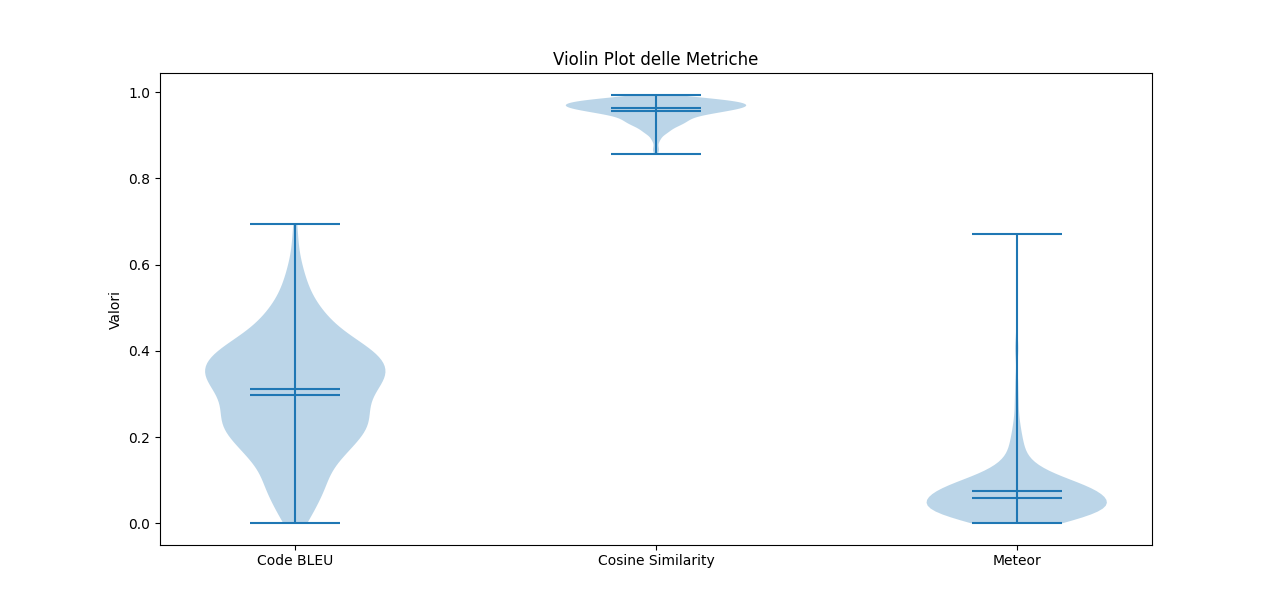
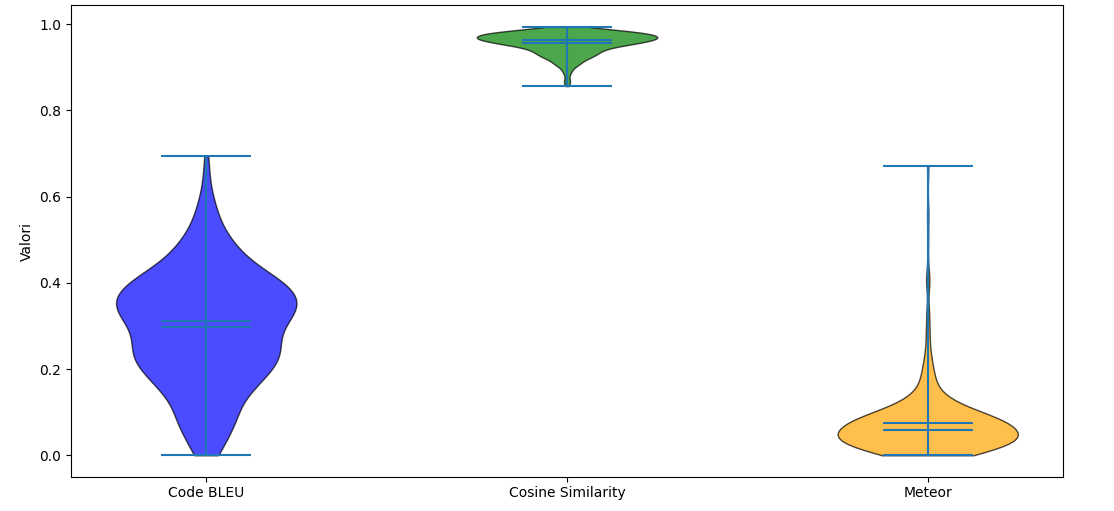
migliorament descrizione e immagini draw, aggiunte di immagini sul documento

diff --git a/descrizione lavoro.tex b/descrizione lavoro.tex
@@ -7,15 +7,18 @@
 \usepackage{xcolor}
 
 \lstset{
+    language=Python,
+    backgroundcolor=\color{white},  
     basicstyle=\ttfamily\small,
     keywordstyle=\color{blue},
     commentstyle=\color{gray},
     numbers=left,
     numberstyle=\tiny,
     stepnumber=1,
+    showstringspaces=false,
     breaklines=true,
     breakatwhitespace=false,
-    columns=flexible,
+    columns=flexible
 }
 
 \lstdefinelanguage{json}{
@@ -27,19 +30,9 @@
     showstringspaces=false,
     breaklines=true,
     frame=single,
-    backgroundcolor=\color{gray!10},
-    literate=
-     *{0}{{{\color{blue}0}}}{1}
-      {1}{{{\color{blue}1}}}{1}
-      {2}{{{\color{blue}2}}}{1}
-      {3}{{{\color{blue}3}}}{1}
-      {4}{{{\color{blue}4}}}{1}
-      {5}{{{\color{blue}5}}}{1}
-      {6}{{{\color{blue}6}}}{1}
-      {7}{{{\color{blue}7}}}{1}
-      {8}{{{\color{blue}8}}}{1}
-      {9}{{{\color{blue}9}}}{1},
+    backgroundcolor=\color{gray!10}
 }
+\newcommand{\dafare}[1]{\textbf{\textcolor{red}{[Da fare: #1]}}}
 
 \title{Utilizzo degli LLM per Generare Hugging Face Model Card da esempi di codice}
 \author{Stefano Palombo}
@@ -71,6 +64,7 @@ Per raggiungere questo scopo è stata inizialmente condotta una ricerca approfon
 L’estrazione e l’analisi di queste sequenze di codice forniscono informazioni utili non solo per valutare la coerenza tra documentazione ufficiale e utilizzo pratico, ma anche per comprendere meglio come i modelli vengono adottati nella realtà. L’analisi dei pattern permette infatti di identificare best practices, iperparametri specifici che potrebbero non essere immediatamente evidenti nelle model card.\\
 L’approccio sviluppato potrebbe anche essere utilizzato in futuro per arricchire automaticamente le model card che attualmente non contengono esempi di codice, contribuendo a migliorare la qualità e la fruibilità della documentazione dei modelli preaddestrati, rendendo l’ecosistema di Hugging Face ancora più accessibile.\\
 
+\dafare{1}
 \textbf{CLAUDIO:Metti il link al repository github con il codice e i dati}
 
 \section{Contesto e Motivazione}
@@ -78,7 +72,7 @@ L’approccio sviluppato potrebbe anche essere utilizzato in futuro per arricchi
 In questa sezione verranno illustrati i principali strumenti impiegati, evidenziando il loro ruolo all'interno del workflow sperimentale e il motivo della loro scelta per ottimizzare l'accuratezza e l'efficienza dell’analisi:
 
 \subsubsection{Hugging Face Model card} 
-Rappresenta la documentazione ufficiale di un modello pre-addestrato (\textbf{PTM})  e include informazioni tecniche e pratiche per il suo utilizzo\cite{huggingface_model_cards}. Ogni model card è associata a un repository su Hugging Face e solitamente è contenuta in un file README.md, accessibile direttamente dalla pagina web del modello (es. \cite{all-MiniLM-L6-v2} \ref{fig:1}).\\
+Rappresenta la documentazione ufficiale di un modello pre-addestrato (\textbf{PTM})  e include informazioni tecniche e pratiche per il suo utilizzo\cite{huggingface_model_cards}. Ogni model card è associata a un repository su Hugging Face e solitamente è contenuta in un file README.md, accessibile direttamente dalla pagina web del modello (es. \cite{all-MiniLM-L6-v2} \ref{fig:model_card_completa}).\\
 Le informazioni comprese in una model card variano a seconda del creatore del modello, ma generalmente comprendono una descrizione generale, che illustra l'architettura del modello, lo scopo e le principali caratteristiche. Vengono poi specificati i task supportati, come classificazione, generazione di testo, embedding e traduzione. Inoltre, viene indicata la licenza sotto cui il modello è rilasciato, un aspetto fondamentale per comprenderne le condizioni d'uso. Un altro elemento chiave è la descrizione dei dataset di pre-training, che fornisce informazioni sulle fonti dei dati utilizzati per l'addestramento del modello. Se presenti, vengono segnalate eventuali restrizioni sulla lunghezza massima del contesto supportato, comunemente indicate come token limit.\\
 Una parte della model card potrebbe essere dedicata alla modalità di fine-tuning, offrendo suggerimenti su come adattare il modello per compiti specifici. Sono inoltre fornite informazioni su inferenza e deployment, con esempi pratici e spesso accompagnati da snippet di codice Python che utilizzano la libreria open-source \textit{transformers}\cite{wolf-etal-2020-transformers}, sviluppata direttamente da Hugging Face. Infine, vengono evidenziate le principali limitazioni del modello, incluse le performance su dati specifici e i potenziali problemi legati al suo utilizzo.\\
 Oltre al contenuto testuale, le model card includono una sezione di metadati in formato YAML all'inizio del file README.md. Questi metadati facilitano la ricerca e il filtraggio dei modelli nel \textit{Model Hub}, consentendo agli utenti di selezionare modelli in base a criteri come licenza, dataset utilizzati e lingue supportate.\\
@@ -90,7 +84,7 @@ Infine, recenti studi su larga scala hanno analizzato le model card esistenti, e
     \centering
     \includegraphics[width=.7\linewidth]{images/model_card.png}
     \caption{Esempio di model card}
-    \label{fig1:model_card_completa}
+    \label{fig:model_card_completa}
 \end{figure}
 
 \subsubsection{Processo di raccolta dati} \label{tirocinio}
@@ -163,12 +157,19 @@ Quando si utilizza un LLM open-source come LLaMA per generare testo (codice), è
 \end{itemize}
 
 \subsubsection{Clustering}
-
+Il \textbf{clustering} è una tecnica di machine learning \textit{non supervisionato} utilizzata per raggruppare un insieme di dati in sottogruppi omogenei, detti cluster, sulla base di caratteristiche comuni. L'obiettivo di questa tecnica è identificare strutture o pattern nascosti nei dati senza la necessità di etichette predefinite. A differenza della classificazione, in cui ogni elemento viene assegnato a una categoria nota, il clustering permette di scoprire relazioni tra i dati in modo autonomo. La qualità del risultato, in generale, dipende soprattutto dalla metrica di similarità utilizza come la distanza euclidea o la similarità del coseno.\\ (wikipedia)
+\dafare{2}
 
 \subsection{Motivazione} \label{motivation}
-Oltre alla misurazione di quanto la generazione automatica di codice, che rappresenti l'uso del modello in contesti reali, sia simile a quella ufficiale presente sulla piattaforma Hugging Face, i risultati condotti dall'esperimento possono essere interpreti anche come una fonte di arricchimento, soprattutto nelle model card in cui non ci sono esempi di codice.
-
-ESEMPIO DI CARD "microsoft/git-large" senza codice (motivazione)
+Oltre alla misurazione di quanto la generazione automatica di codice, che rappresenti l'uso del modello in contesti reali, sia simile a quella ufficiale presente sulla piattaforma Hugging Face, i risultati condotti dall'esperimento possono essere interpreti anche come una fonte di arricchimento, soprattutto nelle model card in cui non ci sono esempi di codice.\\
+Prendendo come esempio la model card del modello \textit{microsoft/git-large} (\url{https://huggingface.co/microsoft/git-large}) si può notare che è priva di esempi di codice.
+\begin{figure}[htbp]
+    \centering
+    \includegraphics[width=\textwidth]{images/model_card_senza_codice.png}
+    \caption{Distribuzione metriche}
+    \label{fig:motivazione}
+\end{figure}
+\dafare{3}
 
 \section{Lavori correlati}
 In questa sezione vengono presentati i principali studi e strumenti esistenti che affrontano tematiche affini a quelle trattate in questo esperimento. L'analisi della letteratura permette di contestualizzare il lavoro svolto, evidenziando le soluzioni già proposte, i loro punti di forza e le eventuali limitazioni.
@@ -190,6 +191,7 @@ Nel complesso il sistema \textit{FOCUS} presenta diverse analogie con l'approcci
     \item \textit{Supporto agli sviluppatori}: entrambi i sistemi hanno come obbiettivo principale quello di aiutare i programmatori nello sviluppo software, riducendo gli sforzi.
 \end{itemize}
 
+
 \subsection{Generazione di codice tramite LLMs:}
 L’uso dei modelli di linguaggio di grandi dimensioni ha rivoluzionato il modo in cui gli sviluppatori scrivono software. Lo studio\cite{hou2024large} presenta un'analisi sistematica della letteratura scientifica applicata all'ingegneria dell'software, analizzando oltre 395 articoli pubblicati tra il 2017 e il 2024.\\
 I principali utilizzi degli LLMs nella generazione di codice includono:
@@ -200,6 +202,12 @@ I principali utilizzi degli LLMs nella generazione di codice includono:
 \end{itemize}
 L'analisi effettuata si collega direttamente a questo lavoro, perché si sfrutta un LLM per sintetizzare pattern di codice rappresentativi reali basandosi sugli snippet estratti da progetti open-source, un approccio simile Codex e AlphaCode, ma con l'obbietivo di automatizzare e migliorare la documentazione dei PTM di Hugging Face.\\
 Inoltre, l'utilizzo di metriche di similità come \textit{CodeBLEU} sono fondamentali per l'accuratezza e la valutazione del codice generato dagli LLMs.
+
+\dafare{4}
+ricontrollare
+
+\dafare{5}
+screen immagini draw.io
 
 \section{Approccio}
 Immagine e spiegazione legenda\\
@@ -348,7 +356,7 @@ Per ottimizzare i tempi di esecuzione, in presenza di un elevato numero di file 
 
 \subsubsection{Salvataggio informazioni}
 L'insieme degli snippet selezionati da ogni cluster vengono infine salvati in un file JSON per facilitarne la consultazione e l’utilizzo nella successiva fase di analisi, secondo la seguente struttura:\\\\\\
-\begin{lstlisting}[language=json, caption={Esempio di struttura JSON dei migliori snippet selezionati}, label={lst:json-example}]
+\begin{lstlisting}[language=json, caption={Esempio di struttura JSON dei migliori snippet selezionati}, label={lst:json-snippet}]
 {
   "bert-base-uncased": {
     "path/to/file1.py": [
@@ -382,7 +390,7 @@ Il prompt ha come unico scopo di istruire il modello a individuare eclusivamente
     \item strutture tipiche di utilizzo dei modelli PTM
 \end{itemize}
 La tecnica utilizza nella costruzione è \textit{zero-shot prompting} perché non si menzionano esempi nella stringa, puntanto sulla capicità del modello di generalizzare nelle risposte.
-\begin{lstlisting}[]
+\begin{lstlisting}
 system_prompt = (
 "You are an AI assistant specialized in Python.
 I will provide you with a series of code snippets extracted from various Python files.
@@ -473,6 +481,53 @@ In sintesi, questo approccio consente di massimizzare l’efficacia delle chiama
 \end{itemize}
 
 \subsubsection{Esempio di card generata}
+Si mostra il codice generato per il modello \textit{kakaobrain/karlo-v1-alpha-image-variations} che si applica generalmente per generare immagini partendo da testo (\url{https://huggingface.co/kakaobrain/karlo-v1-alpha-image-variations})
+\begin{lstlisting}
+def load_data():
+    # Load data from kakaobrain/karlo-v1-alpha-image-variations
+    data = pd.read_csv('data/train.csv')
+    return data
+
+def preprocess_image(image):
+    # Resize and normalize image
+    image = tf.image.resize(image, (224, 224))
+    image = tf.image.per_image_standardization(image)
+    return image
+
+def create_model(input_shape):
+    # Create Keras model
+    model = tf.keras.models.Sequential([
+        tf.keras.layers.Conv2D(32, (3, 3), activation='relu', input_shape=input_shape),
+        tf.keras.layers.MaxPooling2D((2, 2)),
+        tf.keras.layers.Conv2D(64, (3, 3), activation='relu'),
+        tf.keras.layers.MaxPooling2D((2, 2)),
+        tf.keras.layers.Conv2D(128, (3, 3), activation='relu'),
+        tf.keras.layers.Flatten(),
+        tf.keras.layers.Dense(128, activation='relu'),
+        tf.keras.layers.Dense(10, activation='softmax')
+    ])
+    return model
+
+def train_model(model, data):
+    # Train model
+    model.compile(optimizer='adam', loss='sparse_categorical_crossentropy', metrics=['accuracy'])
+    model.fit(data, epochs=10)
+    return model
+
+def evaluate_model(model, data):
+    # Evaluate model
+    loss, accuracy = model.evaluate(data)
+    return loss, accuracy
+
+def save_model(model):
+    # Save model
+    model.save('model.h5')
+\end{lstlisting}
+Si può notare che, sebbene il codice generato non rappresenti un'implementazione completa del modello kakaobrain/karlo-v1-alpha-image-variations, esso fornisce comunque una struttura chiara e coerente con l’utilizzo tipico del modello. In particolare, emergono aspetti tecnici utili, come la gestione dei dati di input, la pre-elaborazione delle immagini, la definizione dell’architettura della rete neurale e le impostazioni per l’addestramento.\\
+Questi dettagli, anche se non garantiscono un’implementazione esatta del modello, risultano comunque utili per comprendere l’approccio adottato nella documentazione della model card e possono servire come base per sviluppatori interessati a integrare il modello in un progetto pratico.
+
+\dafare{5}
+screen immagini draw.io
 
 \section{Validazione e risultati}
 (IMMAGINE)\\
@@ -492,8 +547,18 @@ L'obbietivo principale è valutare l'efficacia e la qualità delle model card ge
 Nonostante nel dump \cite{ait_hfcommunity_2023}  ci fosse la feature "card data", cioè le informazioni riguardanti la model card di ogni PTM, non erano presenti gli snippet di codice Python che mostrano l'utilizzo del modello specifico in un esempio di applicazione.\\  
 Quindi, per ottenere queste sezioni della card di HF, si è sviluppato un semplice script che utilizza la libreria \textit{BeautifulSoup}\cite{Richardson_Beautiful_Soup} per effettuare web scarping delle pagine HTML dei PTM popolari selezioni per l'esperimento. Ad ogni iterazione si ricerca il tag \textit{\textless code\textgreater} e quando avviene la corrispondenza si controlla che il risultato sia effettivamente appartenente al linguaggio Python, quindi semplicemente verificando che nella stringa siano presenti le keyword "import", "from" e "def".\\
 Si noti che per ogni PTM analizzato lo scraper potrebbe trovare anche più di uno snippet Python, perché nella stessa model card potrebbe venir illustrate diverse pipeline di utilizzo: dall'importazione con diverse librerie (per esempio \textit{transformers} e \textit{sentence\_transformers}) fino a metodi di encoding tramite embeddings.\\
-Il dataset è strutturato secondo il seguente formato JSON:\\
-\\
+Un esempio di struttura JSON è il seguente:\\
+\begin{lstlisting}[language=json, caption={Esempio di struttura per le card ufficiali di HF}, label={lst:json-snippet}]
+{
+"sentence-transformers/all-MiniLM-L12-v2": [ 
+    "from sentence_transformers..., 
+    "from transformers import AutoTokenizer...
+    ],
+"roberta-large": [
+    "import pipeline...
+    ],...
+}
+\end{lstlisting}
 Dall'analisi effettuata il risultato è di 751 modelli che nelle proprie model card contengano almeno uno snippet di codice Python rispetto ai 1064 di partenza. La differenza è composta quindi da PTM che nonostante siano mediamente popolari sull'utilizzo pratico in progetti open-source abbiano una documentazione probabilmente non completa ed efficace agli sviluppatori; ciò motiva maggiormente lo scopo generale di questo studio.
 
 \subsubsection{Metriche}
@@ -576,35 +641,51 @@ Il processo di calcolo delle metriche menzionate prevede di iterare sui modelli 
 \subsection{Risultati}
 A partire da un insieme iniziale di \textbf{1,064 PTM}, utilizzati in \textbf{141,749 script Python}, il processo descritto nell’approccio ha portato alla generazione di \textbf{875 frammenti} di codice sintetizzati dall’LLM. Questi rappresentano i pattern ricorrenti di un sottinsieme degli snippet selezionati durante il clustering. Tuttavia, \textbf{186 PTM} non hanno prodotto alcun output valido dall’LLM, poiché gli snippet in input non rispettavano il criterio imposto dall’espressione regolare, che richiedeva la presenza esplicita del nome del modello di riferimento.\\
 Parallelamente, il dataset contenente le sezioni di codice estratte dalle model card ufficiali di Hugging Face tramite web scraping ha restituito dati per \textbf{751 modelli}, un valore inferiore rispetto all'insieme iniziale di PTM analizzati, sempre pari a 1064. Pertanto, incrociando i risultati ottenuti dall’LLM con quelli delle model card e considerando solo i modelli comuni, le metriche di valutazione sono state calcolate su un totale di 625 occorrenze.\\
-(GRAFICI)\\
-\\
+\begin{figure}[htbp]
+    \centering
+    \includegraphics[width=\textwidth]{images/risultati1.png}
+    \caption{Distribuzione metriche}
+    \label{fig:risultati1}
+\end{figure}
+\begin{figure}[htbp]
+    \centering
+    \includegraphics[width=\textwidth]{images/risultati2.png}
+    \caption{Violin plot metriche}
+    \label{fig:risultati2}
+\end{figure}
+\begin{figure}[htbp]
+    \centering
+    \includegraphics[width=\textwidth]{images/risultati3.png}
+    \caption{Pair plot metriche}
+    \label{fig:risultati3}
+\end{figure}
 
 \subsubsection{Distribuzione dei valori CodeBLEU}
 La misurazione si basa su un'istanza in cui sono stati assegnati i seguenti pesi nell'equazione \ref{codebleu}: 0.05, 0.05, 0.45, 0.45 rispettivamente (n-gram match, weighted n-gram match, syntax match, data flow match). Questa scelta è motivata dal fatto che l’obiettivo principale dell’analisi è privileggiare la corrispondenza a livello semantico e strutturale, dando meno valore alle scelte terminologiche dei due codici.\\
-Osservando il primo grafico (istrogramma), I valori si concentrano principalmente nell’intervallo 0.2 - 0.4, con un picco attorno a 0.3. Questo suggerisce che, sebbene ci sia una certa somiglianza tra i codici generati dall’LLM e quelli delle model card, la corrispondenza non è particolarmente elevata. Il fatto che pochi valori superino 0.5 indica che le sequenze di codice sintetizzate non sono una replica diretta di quelle ufficiali, ma piuttosto una versione generalizzata dei pattern più comuni.\\
-Nel Violin Plot (secondo grafico), la presenza di un valore mediano attorno a 0.3 confermano la tendenza già osservata con l’istogramma, evidenziando la maggior densità dei punteggi CodeBLEU nell’intervallo 0.2 - 0.4. Nel Pair Plot (terzo grafico), si nota come i punti relativi a CodeBLEU siano distribuiti in modo abbastanza ampio, indicando una certa variabilità dei risultati. Inoltre, dal confronto con le altre metriche, non emerge una correlazione lineare particolarmente forte.
+Osservando il primo grafico \ref{fig:risultati1}, i valori si concentrano principalmente nell’intervallo 0.2 - 0.4, con un picco attorno a 0.3. Questo suggerisce che, sebbene ci sia una certa somiglianza tra i codici generati dall’LLM e quelli delle model card, la corrispondenza non è particolarmente elevata. Il fatto che pochi valori superino 0.5 indica che le sequenze di codice sintetizzate non sono una replica diretta di quelle ufficiali, ma piuttosto una versione generalizzata dei pattern più comuni.\\
+Nel Violin Plot \ref{fig:risultati2}, la presenza di un valore mediano attorno a 0.3 confermano la tendenza già osservata con l’istogramma, evidenziando la maggior densità dei punteggi CodeBLEU nell’intervallo 0.2 - 0.4. Nel Pair Plot \ref{fig:risultati3}, si nota come i punti relativi a CodeBLEU siano distribuiti in modo abbastanza ampio, indicando una certa variabilità dei risultati. Inoltre, dal confronto con le altre metriche, non emerge una correlazione lineare particolarmente forte.
 
 \subsubsection{Distribuzione della Similarità Coseno}
-Qui i valori nel primo grafico sono concentrati tra 0.8 e 0.9, con una distribuzione fortemente sbilanciata verso l’alto. Questo risultato suggerisce un’elevata sovrapposizione tra i due insiemi di dati, ma si tratta di un risultato potenzialmente fuorviante.\\
+Qui i valori nel primo grafico \ref{fig:risultati1} sono concentrati tra 0.8 e 0.9, con una distribuzione fortemente sbilanciata verso l’alto. Questo risultato suggerisce un’elevata sovrapposizione tra i due insiemi di dati, ma si tratta di un risultato potenzialmente fuorviante.\\
 La similarità coseno tende infatti a gonfiare particolarmente i punteggi, soprattutto quando i testi confrontati condividono termini e strutture simili, anche se il significato complessivo può essere differente. Siccome la metrica mostra valori sempre molto alti, non è sempre un indicatore affidabile della qualità della corrispondenza tra i due codici.\\
-Dal Violin Plot si nota come l’intervallo sia compreso quasi interamente tra 0.85 e 1.0, con un picco marcato vicino a 0.9, confermando la scarsa variabilità di questa metrica. Nel Pair Plot, la distribuzione lungo l’asse della similarità coseno appare molto concentrata, e anche osservando i grafici di correlazione con CodeBLEU o METEOR, non si evidenziana una forte correlazione.
+Dal Violin Plot \ref{fig:risultati2} si nota come l’intervallo sia compreso quasi interamente tra 0.85 e 1.0, con un picco marcato vicino a 0.9, confermando la scarsa variabilità di questa metrica. Nel Pair Plot \ref{fig:risultati3}, la distribuzione lungo l’asse della similarità coseno appare molto concentrata, e anche osservando i grafici di correlazione con CodeBLEU o METEOR, non si evidenziana una forte correlazione.
 
 \subsubsection{Distribuzione dei valori METEOR}
-In questo caso, invece, i valori nell'istogramma sono molto bassi, concentrati principalmente tra 0.0 e 0.1, con pochissimi esempi che superano 0.3. Questo indica che il codice generato dall’LLM differisce in modo significativo da quello presente nelle model card ufficiali di HF, almeno secondo i criteri di METEOR.\\
-Tuttavia, bisogna considerare che METEOR è una metrica più adatta alla valutazione di testi in linguaggio naturale e potrebbe non essere del tutto appropriata per confrontare frammenti di codice, dove la similarità semantica non sempre si riflette in una corrispondenza esatta tra parole e sinonimi. Anche nel Violin Plot, METEOR mostra una distribuzione fortemente concentrata in prossimità dello 0, con rare eccezioni che raggiungono valori più alti. Il Pair Plot evidenzia inoltre come la maggior parte dei punti si collochi nella parte bassa della scala METEOR, indipendentemente dai valori di CodeBLEU o della similarità coseno.
+In questo caso, invece, i valori nell'istogramma \ref{fig:risultati1} sono molto bassi, concentrati principalmente tra 0.0 e 0.1, con pochissimi esempi che superano 0.3. Questo indica che il codice generato dall’LLM differisce in modo significativo da quello presente nelle model card ufficiali di HF, almeno secondo i criteri di METEOR.\\
+Tuttavia, bisogna considerare che METEOR è una metrica più adatta alla valutazione di testi in linguaggio naturale e potrebbe non essere del tutto appropriata per confrontare frammenti di codice, dove la similarità semantica non sempre si riflette in una corrispondenza esatta tra parole e sinonimi. Anche nel Violin Plot \ref{fig:risultati2}, METEOR mostra una distribuzione fortemente concentrata in prossimità dello 0, con rare eccezioni che raggiungono valori più alti. Il Pair Plot \ref{fig:risultati3} evidenzia inoltre come la maggior parte dei punti si collochi nella parte bassa della scala METEOR, indipendentemente dai valori di CodeBLEU o della similarità coseno.
 
 \subsubsection{Considerazioni analisi comparata} 
 Osservando i tre grafici nel loro insieme, emergono alcune considerazioni interessanti:
 \begin{itemize} 
-\item Il \textbf{Violin Plot} \ref{} riassume in un’unica vista la distribuzione e la densità dei valori per ciascuna metrica. In particolare, si nota come CodeBLEU abbia un range più ampio, con valori che oscillano tipicamente tra 0.2 e 0.4, mentre la similarità coseno risulti costantemente elevata (attorno a 0.85--0.95) e METEOR sia invece molto basso (con la maggior parte dei valori vicini a 0.0). 
-\item Il \textbf{Pair Plot} \ref{} mostra, oltre alle distribuzioni marginali sulle diagonali, i grafici di dispersione tra le coppie di metriche. Si può osservare: 
+\item Il \textbf{Violin Plot} \ref{fig:risultati2} riassume in un’unica vista la distribuzione e la densità dei valori per ciascuna metrica. In particolare, si nota come CodeBLEU abbia un range più ampio, con valori che oscillano tipicamente tra 0.2 e 0.4, mentre la similarità coseno risulti costantemente elevata (attorno a 0.85--0.95) e METEOR sia invece molto basso (con la maggior parte dei valori vicini a 0.0). 
+\item Il \textbf{Pair Plot} \ref{fig:risultati3} mostra, oltre alle distribuzioni marginali sulle diagonali, i grafici di dispersione tra le coppie di metriche. Si può osservare: 
 \begin{itemize} \item \textit{CodeBLEU vs. Similarità Coseno}: non vi è una correlazione lineare evidente; ciò significa che un valore alto di similarità coseno non implica necessariamente un valore alto di CodeBLEU. 
 \item \textit{CodeBLEU vs. METEOR}: anche qui la dispersione è piuttosto ampia, indicando che punteggi alti o bassi di CodeBLEU non si riflettono in modo coerente in METEOR. 
 \item \textit{Similarità Coseno vs. METEOR}: la maggior parte dei punti si concentra in corrispondenza di valori di coseno elevati e METEOR molto bassi, evidenziando come le due metriche misurino aspetti molto diversi del codice. 
 \end{itemize} 
 \end{itemize}
 Nel complesso, i valori numerici ottenuti indicano che il codice generato dall’LLM non è una semplice copia di quello presente nelle model card ufficiali, ma piuttosto una sintesi alternativa basata su pattern più specifici, estratti direttamente dagli snippet di codice reali. Questo significa che, anche se alcune metriche automatiche risultano basse, il codice prodotto non è necessariamente inattendibile. \\
-Al contrario, questi risultati potrebbero rivelarsi particolarmente utili per gli sviluppatori umani, i quali, analizzando il codice generato, possono astrarre verso pattern più generali, cogliendo dettagli tecnici che le metriche automatiche non riescono a valutare appieno.\\
+Al contrario, questi risultati potrebbero rivelarsi particolarmente utili per gli \textbf{sviluppatori umani}, i quali, analizzando il codice generato, possono astrarre verso pattern più generali, cogliendo dettagli tecnici che le metriche automatiche non riescono a valutare appieno.\\
 Inoltre in riferimento alla \nameref{motivation}, per i modelli per cui l'LLM ha prodotto un output ma non dispongono di una model card ufficiale contenente codice (\textbf{250} codici), il materiale potrebbe essere utilizzato come base per arricchire direttamente la documentazione del modello, proponendo snippet rappresentativi del suo utilizzo tipico. Questo approccio potrebbe facilitare la creazione di model card più complete e accessibili, migliorando la fruibilità dei modelli per la community di sviluppatori.
 
 \section{Limitazioni}
